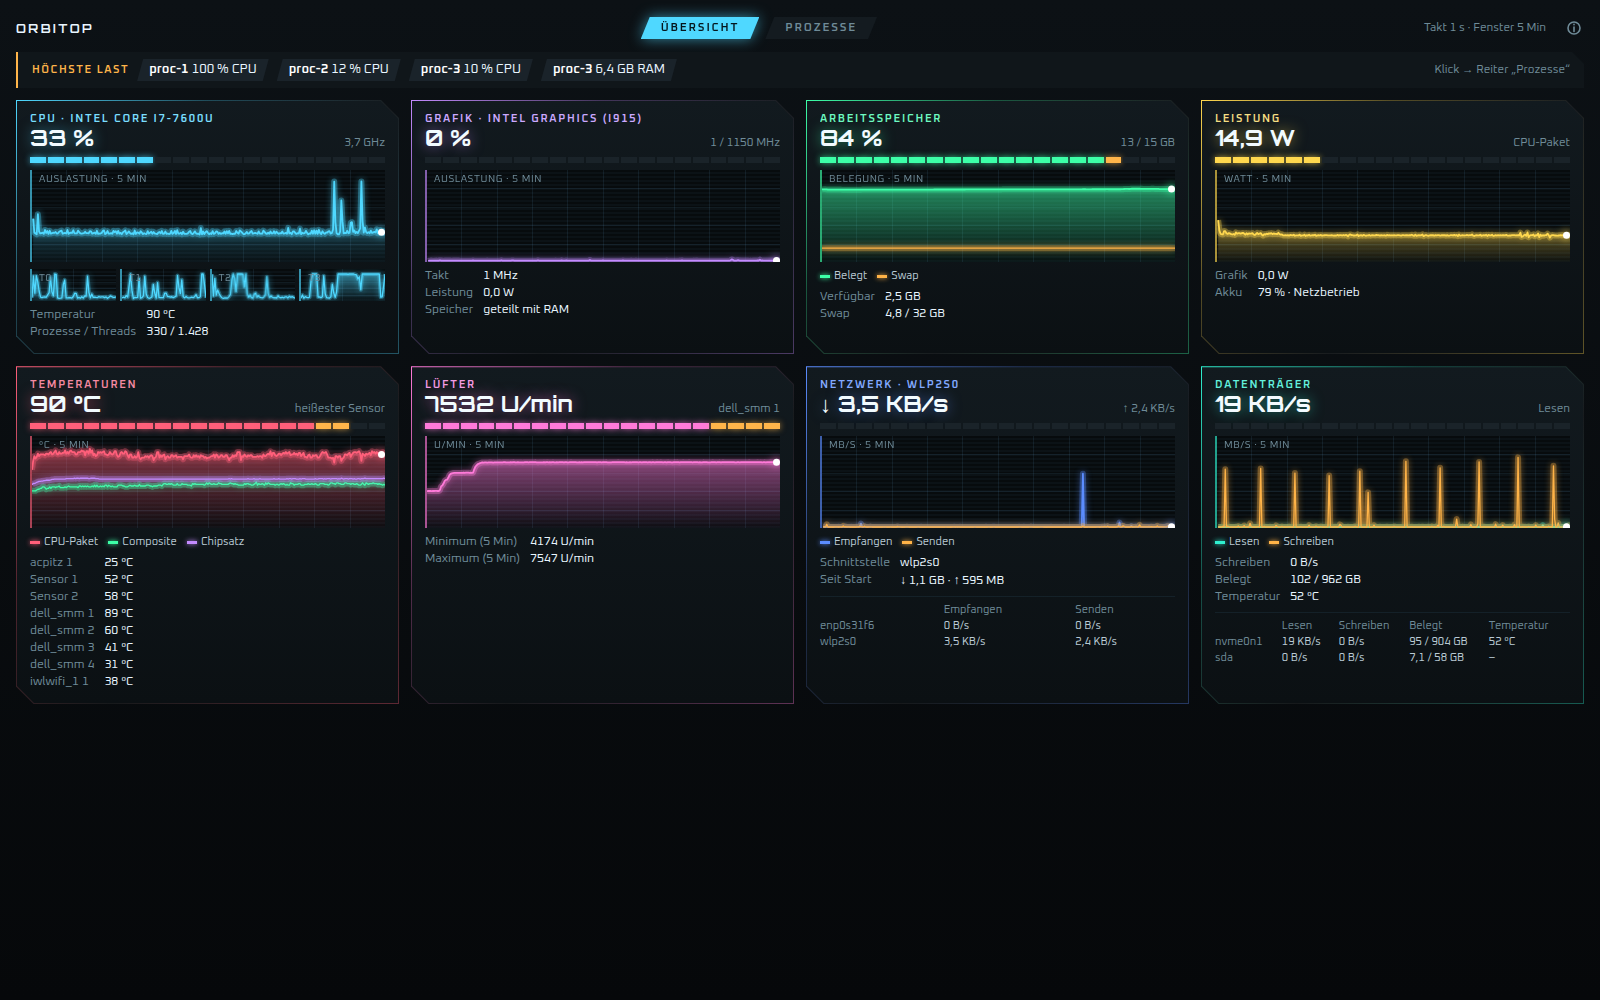
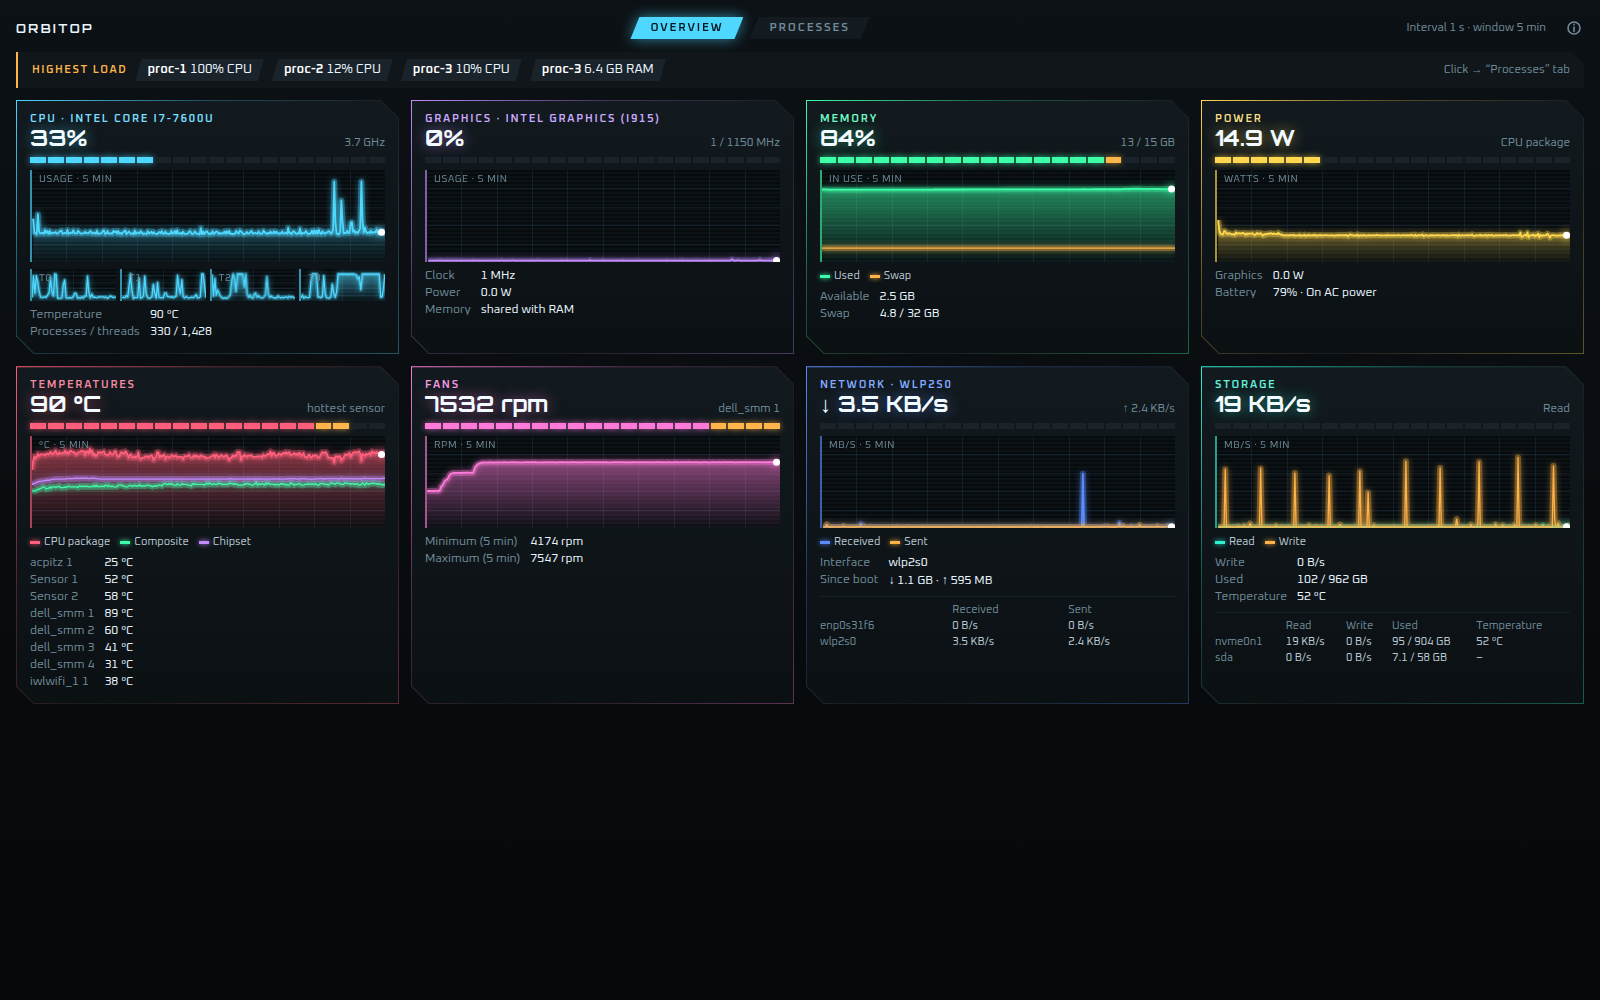
docs: README mit englischem Screenshot

diff --git a/README.md b/README.md
@@ -6,7 +6,7 @@ GTK 4 window with a WebKitGTK 6.0 view, written in Python (stdlib and PyGObject 
 
 ![orbitop overview tab](docs/screenshot.png)
 
-The screenshot shows the overview tab with anonymized demo data (`tests/ui/demo.html`), not a live system.
+The screenshot shows the overview tab with demo data (`tests/ui/demo.html`), not a live system. Process names, command lines and users are anonymized; hardware names (CPU, interfaces, disks, sensors) come from the reference laptop.
 
 **Status:** stage 1. orbitop is run from a checkout of this repository. There is no `.deb` package and no update channel yet.
 
@@ -27,7 +27,7 @@ orbitop checks for GTK 4 and WebKitGTK 6.0 at start and names the missing packag
 ```sh
 git clone https://github.com/zappelmann-sketch/orbitop.git
 cd orbitop
-sudo bash scripts/setup-privileges.sh --dry-run   # show what would happen
+bash scripts/setup-privileges.sh --dry-run        # show what would happen
 sudo bash scripts/setup-privileges.sh             # install packages, grant privileges
 bash scripts/install-user.sh                      # per-user launcher, icon, autostart
 ```
@@ -48,7 +48,7 @@ Run it with `bin/orbitop`, or from the application menu after `install-user.sh`.
 bash scripts/install-user.sh --uninstall
 ```
 
-removes the launcher, icon and autostart entry. The privileges above are undone as described in the risk notes.
+removes the launcher, icon and autostart entry. The apt packages installed by `setup-privileges.sh` (`gir1.2-webkit-6.0`, `intel-gpu-tools`) stay installed. The privileges above are undone as described in the risk notes.
 
 ## Resource use
 
